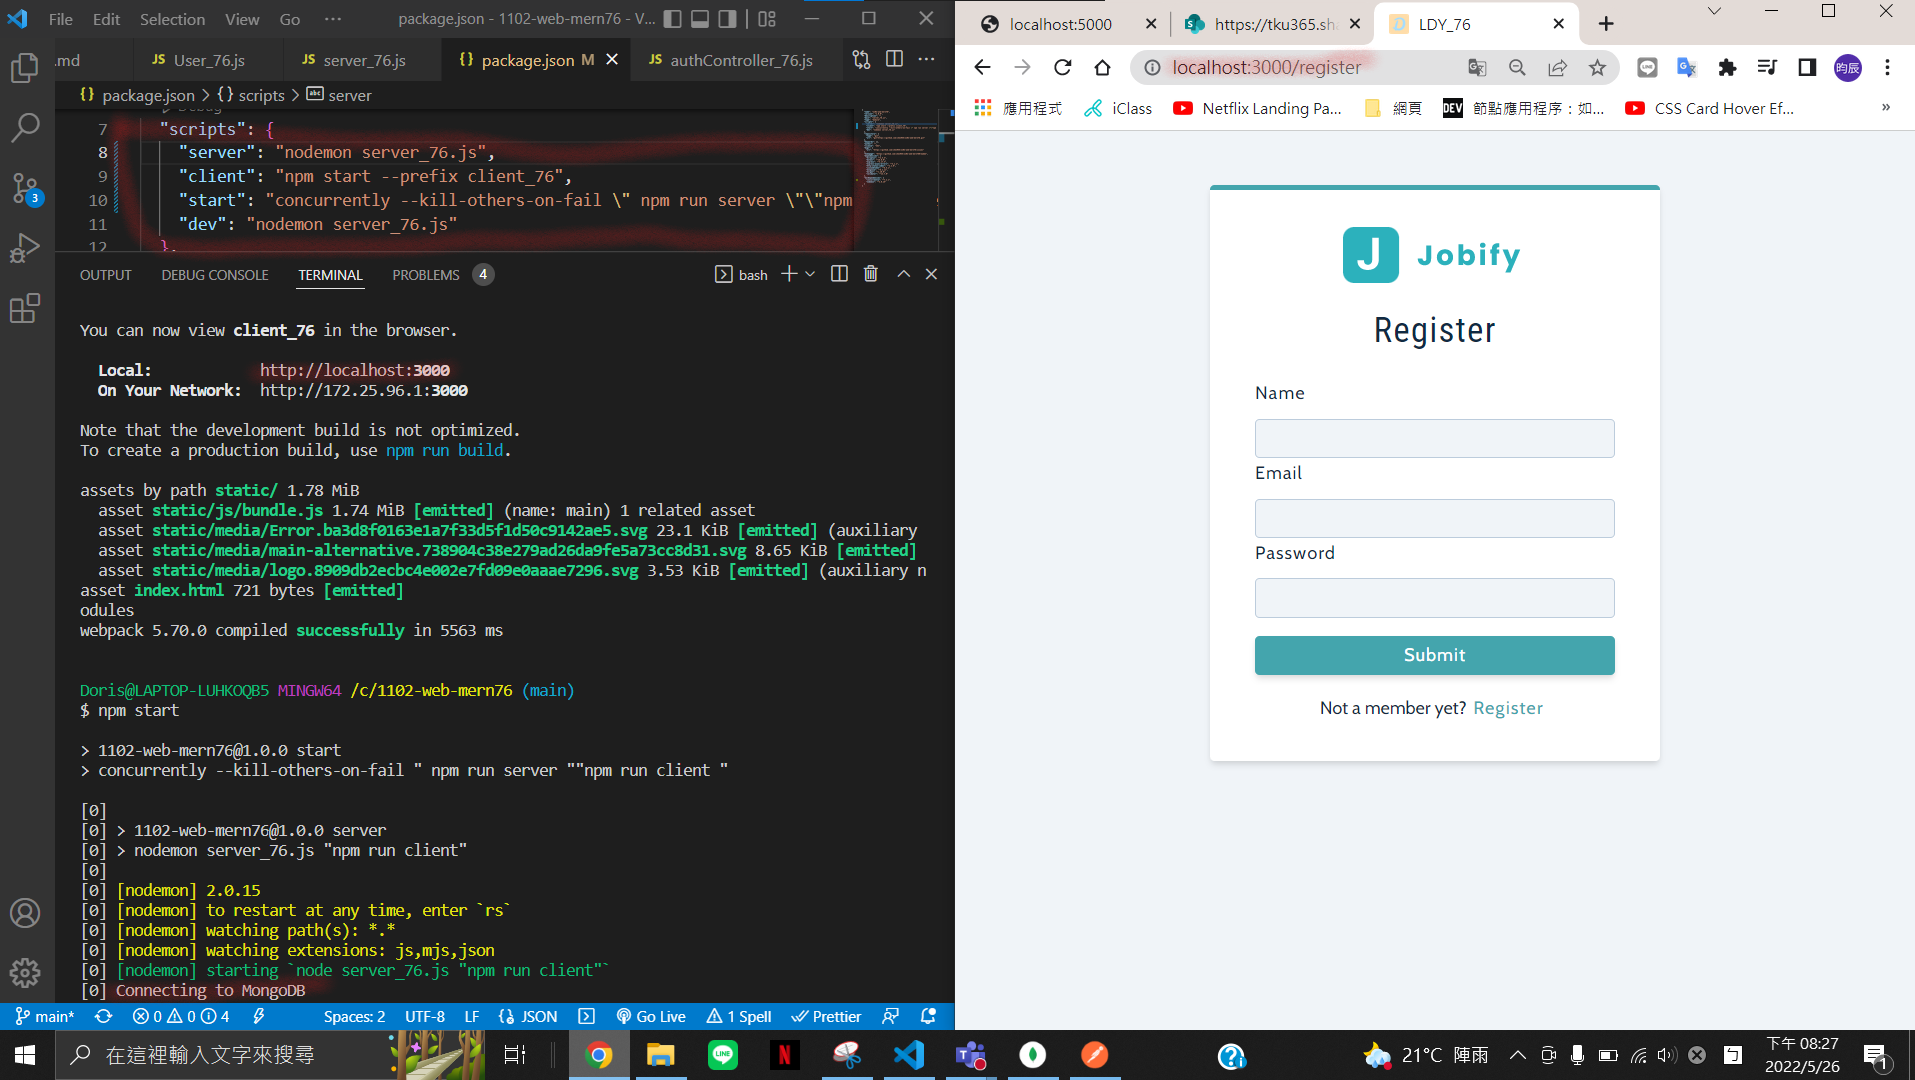
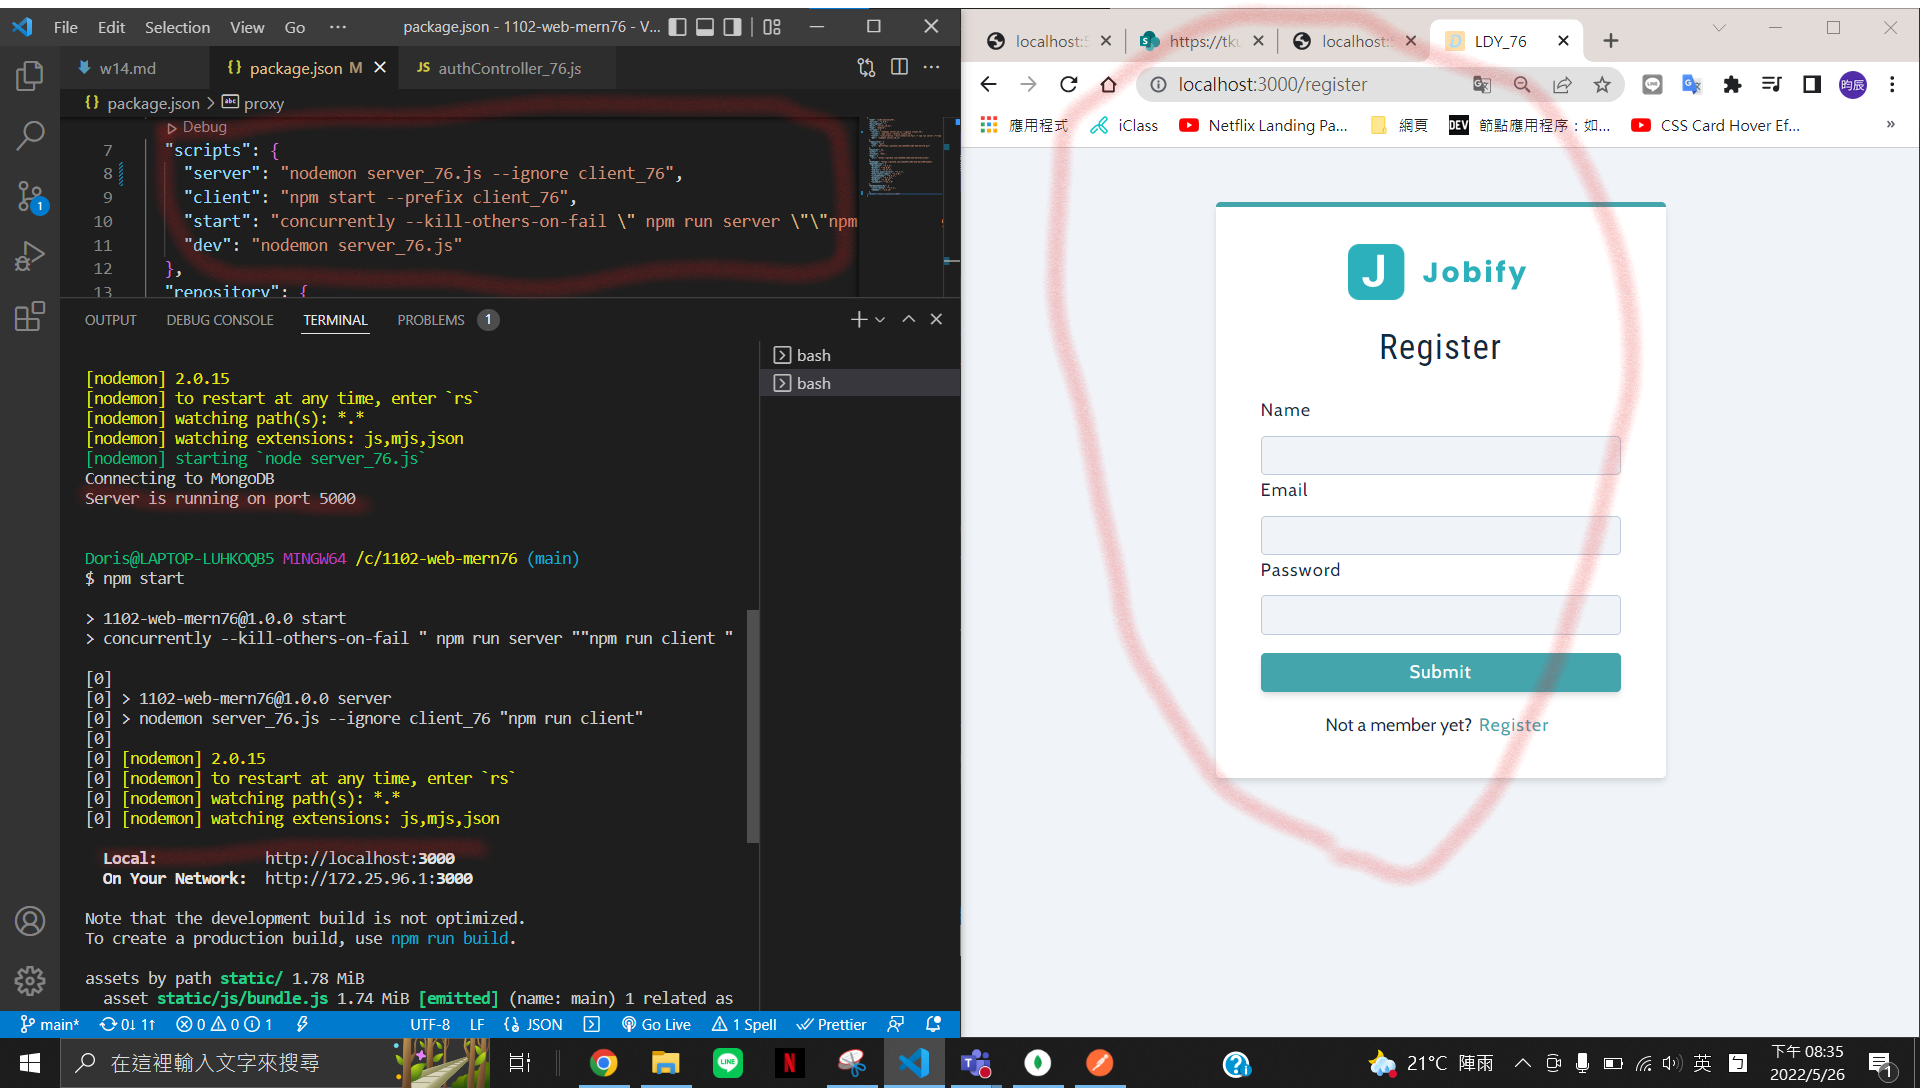
w14-p5: register a user to MongoDB Atlas

diff --git a/server_76.js b/server_76.js
@@ -7,6 +7,7 @@ dotenv.config();
 import "express-async-errors";
 
 import morgan from "morgan";
+import cors from "cors";
 
 // db and authenticateUser
 import connectDB_76 from "./db/connect_76.js";
@@ -19,7 +20,7 @@ import errorHandlerMiddleware_76 from "./middleware/error-handler_76.js";
 if (process.env.NODE.ENV !== "production") {
     app.use(morgan("dev"));
 }
-
+app.use(cors());
 app.use(express.json());
 
 app.get("/", (req, res) => {
@@ -27,13 +28,14 @@ app.get("/", (req, res) => {
     res.send("Welcome Doris 207410076");
 });
 app.use("/api/v1/auth_76", authRoutes_76);
+
 app.use(notFoundMiddleware_76);
 app.use(errorHandlerMiddleware_76);
 const port = process.env.PORT || 5000;
 
 const start = async () => {
     try {
-        await connectDB_76(process.env.MONGO_LOCAL_URL).then(() => {
+        await connectDB_76(process.env.MONGO_URL).then(() => {
             console.log("Connecting to MongoDB");
         });
         app.listen(port, () =>

diff --git a/classdemo/md/w14/w14.md b/classdemo/md/w14/w14.md
@@ -9,3 +9,14 @@
 ### w14-p3: run server and client concurrently
 
 ![p3](./p3.png)
+
+### w14-p4: create mongodb atlas account
+
+![p4](./p4.png)
+
+![p4-1](./p4-1.png)
+
+### w14-p5: register a user to MongoDB Atlas
+
+![p5](./p5.png)
+![p5-1](./p5-1.png)
